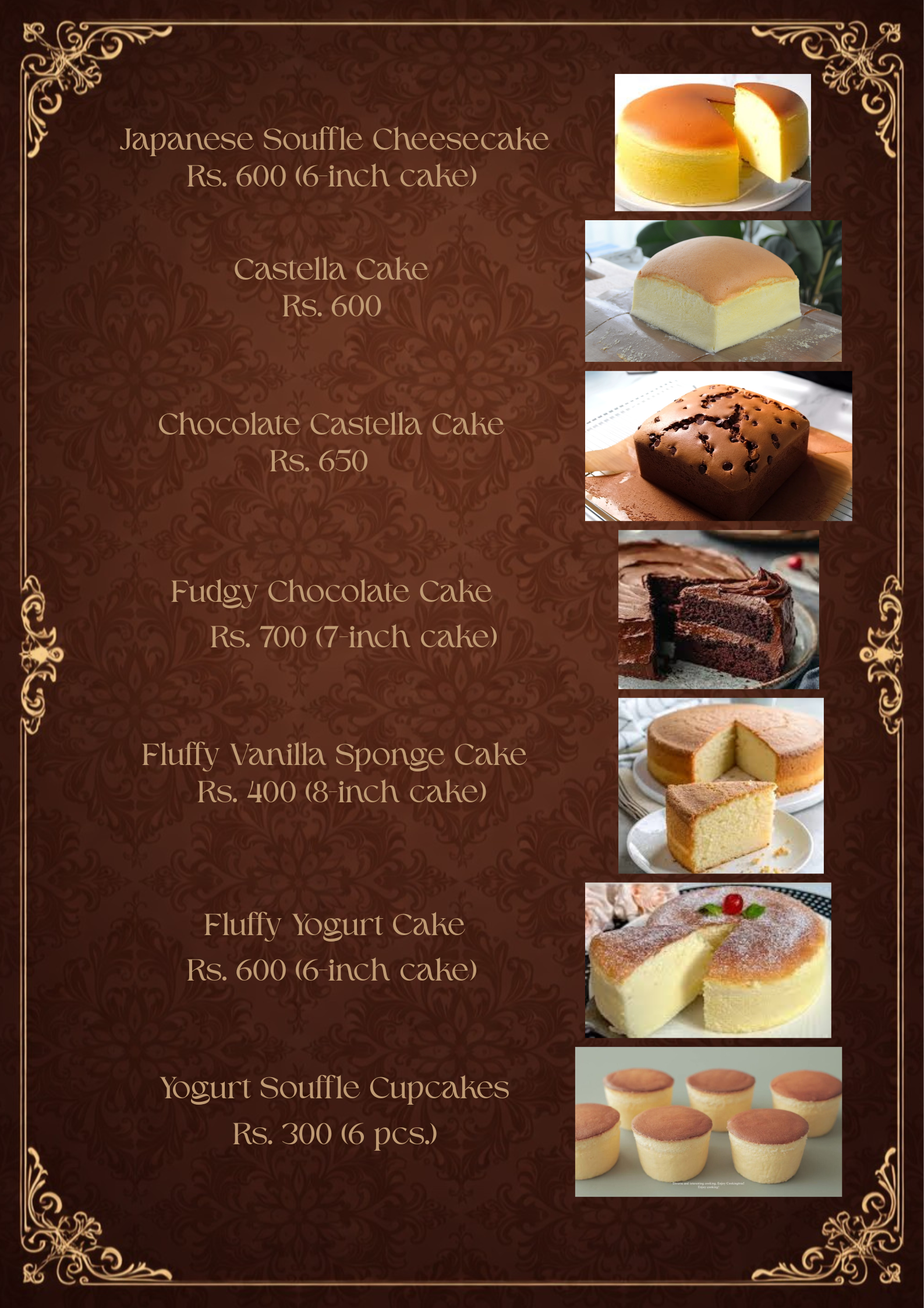
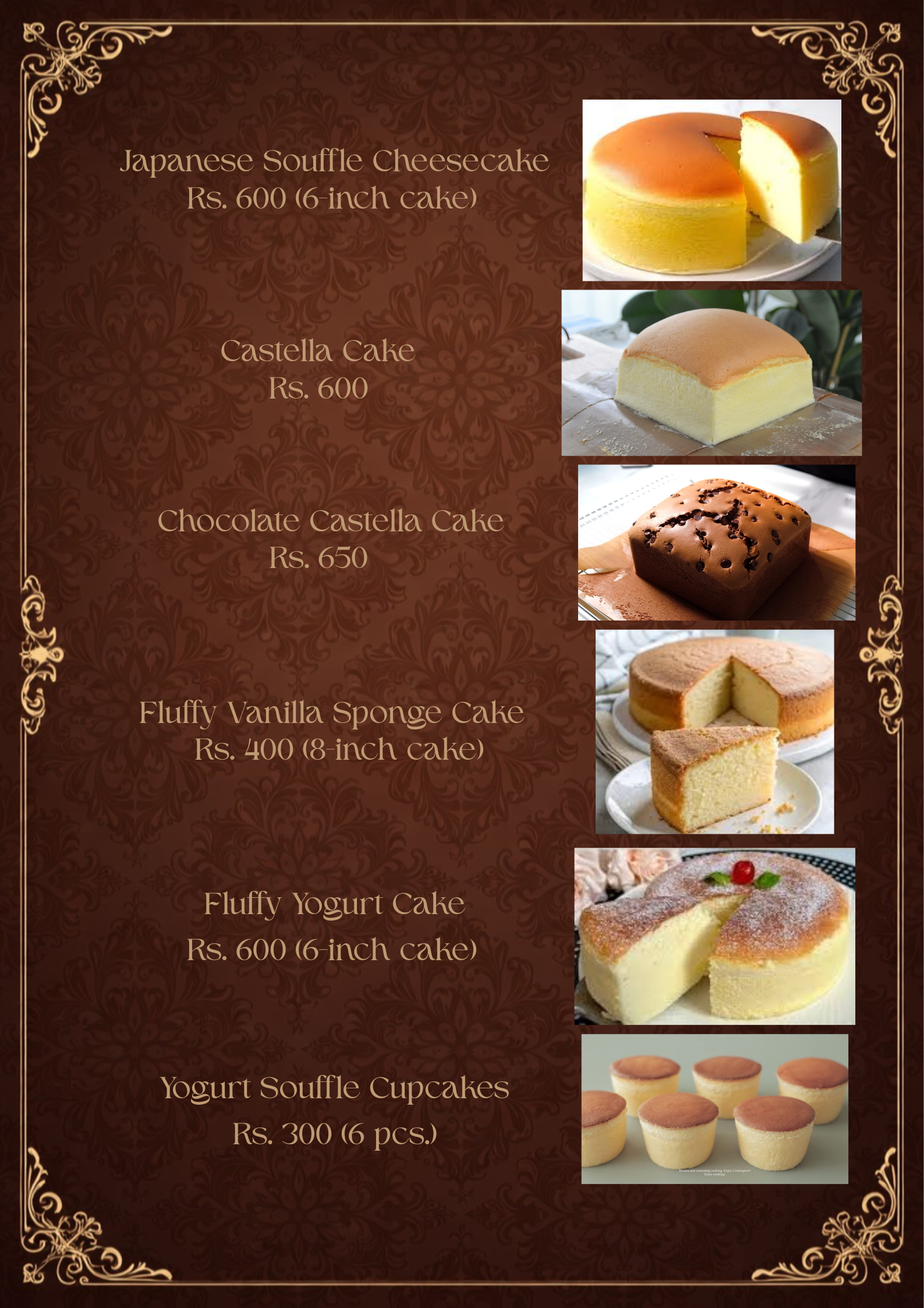
auto update

diff --git a/script.js b/script.js
@@ -218,7 +218,7 @@ const menuData = [
       {
         id: 27,
         name: "Vanilla Chocolate Eclair (6 pcs.)",
-        price: 500,
+        price: 600,
         image: "images/eclair.jpg",
         prefs: false
       },
@@ -241,13 +241,6 @@ const menuData = [
         name: "Chocolate Castella Cake",
         price: 650,
         image: "images/choco castella.jpeg",
-        prefs: false
-      },
-      {
-        id: 31,
-        name: "Fudgy Chocolate Cake (7-inch cake)",
-        price: 700,
-        image: "images/choco cake fudgy.jpg",
         prefs: false
       },
       {
